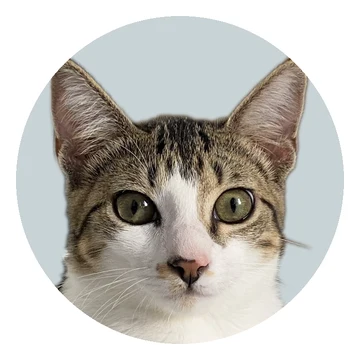
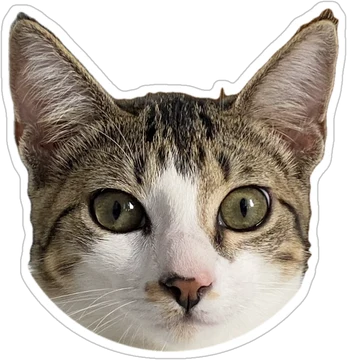
Links: figurinhas com formato do rosto dos bichos, estrela centralizada, 'sou a Yasmin', espaço da linha do tempo
Claude-Session: https://claude.ai/code/session_01JJzwKmvC96HGkRzqWkPA92

diff --git a/links/index.html b/links/index.html
@@ -112,7 +112,8 @@
     .colagem .principal { transform: rotate(-2deg); margin-right: 26px; padding-bottom: 34px; }
     .colagem .principal img { aspect-ratio: 4/4.7; object-position: 50% 20%; }
     .selo-estrela { position: absolute; right: -2px; top: -18px; width: 104px; height: 104px; display: grid; place-items: center; transform: rotate(10deg); z-index: 4; }
-    .selo-estrela svg { position: absolute; inset: 0; width: 100%; height: 100%; fill: var(--azul); }
+    .selo-estrela svg { position: absolute; inset: 0; width: 100%; height: 100%; fill: var(--azul); overflow: visible; }
+    .selo-estrela text { fill: var(--bege); font-family: var(--mao); font-weight: 700; font-size: 16px; }
     .selo-estrela span { position: relative; font-family: var(--mao); font-weight: 700; color: var(--bege); font-size: 1.05rem; line-height: .9; text-align: center; transform: rotate(-10deg); display: block; width: 100%; padding-top: 3px; }
     /* "oi" em papel rasgado */
     .bilhete {
@@ -251,7 +252,7 @@
     .figurinhas { display: flex; gap: 22px; justify-content: center; margin-top: 16px; }
     .figurinha { margin: 0; display: grid; justify-items: center; gap: 2px; }
     .figurinha .bicho {
-      width: 92px; height: 92px; object-fit: contain; border-radius: 50%;
+      width: 96px; height: 96px; object-fit: contain;
       filter: drop-shadow(0 6px 8px rgba(53,1,7,.28));
       transition: transform .2s ease;
     }
@@ -385,7 +386,7 @@
       .numero span { margin-top: 0; }
 
       /* linha do tempo: linha no meio, cards alternando os lados */
-      .cabeca-tempo { text-align: center; padding-top: 14px; min-height: 300px; }
+      .cabeca-tempo { text-align: center; padding-top: 14px; min-height: 236px; }
       .cabeca-tempo .fotinhos { position: absolute; inset: 0 0 auto 0; margin: 0; justify-content: space-between; pointer-events: none; }
       .cabeca-tempo .fotinhos .polaroid { width: 170px; max-width: none; pointer-events: auto; }
       .cabeca-tempo .fotinhos .polaroid:first-child { transform: rotate(-7deg); }
@@ -413,7 +414,7 @@
       .bastidores { grid-template-columns: auto 1fr auto; }
       .bastidores h3 { grid-row: auto; }
       .bastidores .figurinhas { margin-top: 0; }
-      .figurinha .bicho { width: 110px; height: 110px; }
+      .figurinha .bicho { width: 116px; height: 116px; }
 
       /* contato centralizado, botões em linha */
       .contato { margin: 90px calc(50% - 50vw) 0; padding: 64px 32px 30px; }
@@ -460,10 +461,9 @@
             <img src="../fotos/capa-celular.webp" alt="Yasmin Caetano com o rosto apoiado na mão, segurando um drink" fetchpriority="high">
           </div>
           <div class="selo-estrela" aria-hidden="true">
-            <svg viewBox="0 0 100 100"><path d="M50 0l9 22 22-9-9 22 22 9-22 9 9 22-22-9-9 22-9-22-22 9 9-22-22-9 22-9-9-22 22 9z"/></svg>
-            <span>mima<br>artista</span>
+            <svg viewBox="0 0 100 100"><path d="M50 0l9 22 22-9-9 22 22 9-22 9 9 22-22-9-9 22-9-22-22 9 9-22-22-9 22-9-9-22 22 9z"/><text x="50" y="47" text-anchor="middle" transform="rotate(-10 50 50)"><tspan x="50">mima</tspan><tspan x="50" dy="15">artista</tspan></text></svg>
           </div>
-          <div class="bilhete"><b>oi, eu sou a <em>Yasmin</em></b></div>
+          <div class="bilhete"><b>sou a <em>Yasmin</em></b></div>
         </div>
 
         <div class="hero-texto">
